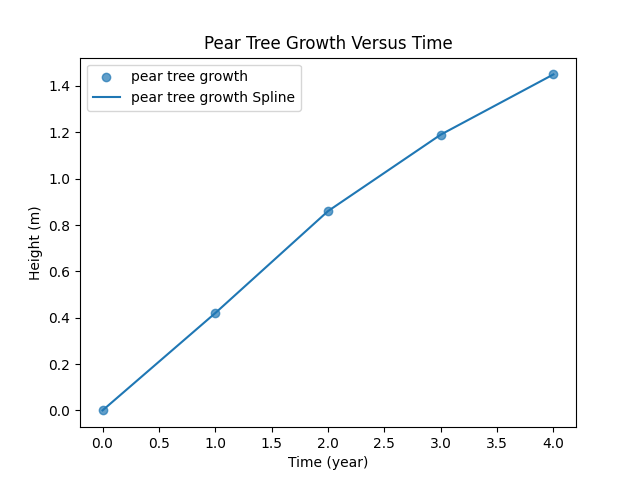
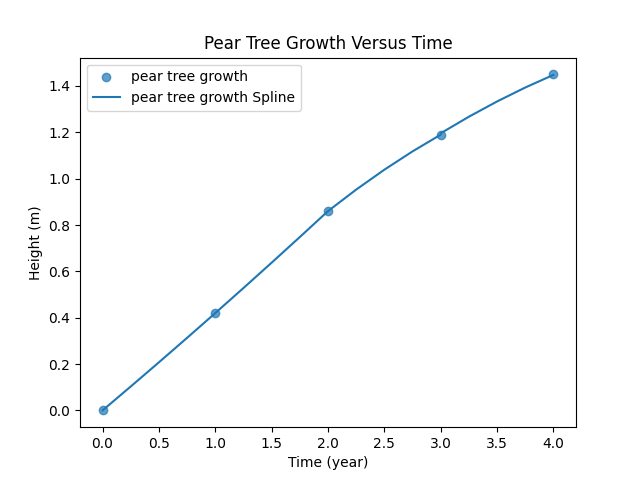
improving traces_style_collection and matplotlib conversion

diff --git a/JSONGrapher/JSONRecordCreator.py b/JSONGrapher/JSONRecordCreator.py
@@ -333,6 +333,7 @@ class JSONGrapherRecord:
     One can also use syntax like Record["comments"] = ...  as some 'magic' synchronizes fields directlyin the Record with fields in the fig_dict.
     However, developers should usually use the syntax like Record.fig_dict, internally, to avoid any referencing mistakes.
 
+
     Arguments & Attributes (all are optional):
         comments (str): Can be used to put in general description or metadata related to the entire record. Can include citation links. Goes into the record's top level comments field.
         datatype: The datatype is the experiment type or similar, it is used to assess which records can be compared and which (if any) schema to compare to. Use of single underscores between words is recommended. This ends up being the datatype field of the full JSONGrapher file. Avoid using double underscores '__' in this field  unless you have read the manual about hierarchical datatypes. The user can choose to provide a URL to a schema in this field, rather than a dataype name.
@@ -1359,39 +1360,59 @@ def validate_JSONGrapher_record(record):
     else:
         return True, []
 
-def rolling_polynomial_fit(x_values, y_values, window_size=3, degree=2):
+def rolling_polynomial_fit(x_values, y_values, window_size=3, degree=2, num_interpolated_points=3, adjust_edges=True):
     """
-    Applies a rolling polynomial regression with a specified window size and degree.
+    Applies a rolling polynomial regression with a specified window size and degree,
+    interpolates additional points, and optionally adjusts edge points for smoother transitions.
 
     Args:
         x_values (list): List of x coordinates.
         y_values (list): List of y coordinates.
         window_size (int): Number of points per rolling fit (default: 3).
         degree (int): Degree of polynomial to fit (default: 2).
+        num_interpolated_points (int): Number of interpolated points per segment (default: 3). Set to 0 to only return original points.
+        adjust_edges (bool): Whether to adjust edge cases based on window size (default: True).
 
     Returns:
         tuple: (smoothed_x, smoothed_y) lists for plotting.
     """
     import numpy as np
+
     smoothed_y = []
-    smoothed_x = x_values  # Keep x values unchanged
+    smoothed_x = []
 
     half_window = window_size // 2  # Number of points to take before & after
 
-    for i in range(len(y_values)):
-        # Handle edge cases: First and last points have fewer neighbors
+    for i in range(len(y_values) - 1):
+        # Handle edge cases dynamically based on window size
         left_bound = max(0, i - half_window)
         right_bound = min(len(y_values), i + half_window + 1)
+
+        if adjust_edges:
+            if i == 0:  # First point
+                right_bound = min(len(y_values), i + window_size)  # Expand to use more points near start
+            elif i == len(y_values) - 2:  # Last point
+                left_bound = max(0, i - (window_size - 1))  # Expand to include more points near end
 
         # Select the windowed data
         x_window = np.array(x_values[left_bound:right_bound])
         y_window = np.array(y_values[left_bound:right_bound])
 
+        # Adjust degree based on window size
+        adjusted_degree = degree if len(x_window) > 2 else 1  # Use linear fit if only two points are available
+
         # Fit polynomial & evaluate at current point
-        poly_coeffs = np.polyfit(x_window, y_window, deg=degree)
-        smoothed_y.append(np.polyval(poly_coeffs, x_values[i]))
+        poly_coeffs = np.polyfit(x_window, y_window, deg=adjusted_degree)
+
+        # Generate interpolated points between x_values[i] and x_values[i+1]
+        x_interp = np.linspace(x_values[i], x_values[i+1], num_interpolated_points + 2)  # Including endpoints
+        y_interp = np.polyval(poly_coeffs, x_interp)
+
+        smoothed_x.extend(x_interp)
+        smoothed_y.extend(y_interp)
 
     return smoothed_x, smoothed_y
+
 
 
 ## Start of Section of Code for Styles and Converting between plotly and matplotlib Fig objectss ##
@@ -1416,7 +1437,8 @@ def rolling_polynomial_fit(x_values, y_values, window_size=3, degree=2):
 def parse_plot_style(plot_style):
     """
     Parse the given plot style and return a structured dictionary for layout and data series styles.
-
+    If plot_style is missing a layout_style or trace_styles_collection then will set them as an empty string.
+    
     :param plot_style: None, str, list of two items, or a dictionary with at least one valid field.
     :return: dict with "layout_style" and "trace_styles_collection", ensuring defaults if missing.
     """
@@ -1431,15 +1453,17 @@ def parse_plot_style(plot_style):
             if "trace_style_collection" in plot_style:
                 print("Warning: plot_style has 'trace_style_collection', this key should be 'trace_styles_collection'.  The key is being used, but the spelling error should be fixed.")
                 plot_style["traces_styles_collection"] = plot_style["trace_style_collection"]
-            if "traces_style_collection" in plot_style:
+            elif "traces_style_collection" in plot_style:
                 print("Warning: plot_style has 'traces_style_collection', this key should be 'trace_styles_collection'.  The key is being used, but the spelling error should be fixed.")
                 plot_style["traces_styles_collection"] = plot_style["traces_style_collection"]
-
+            else:
+                plot_style.setdefault("trace_styles_collection", '')
+        if "layout_style" not in plot_style: 
+            plot_style.setdefault("layout_style", '')
         parsed_plot_style = {
             "layout_style": plot_style.get("layout_style", None),
             "trace_styles_collection": plot_style.get("trace_styles_collection", None),
         }
-        
     else:
         raise ValueError("Invalid plot style: Must be None, a string, a list of two items, or a dictionary with valid fields.")
     return parsed_plot_style
@@ -1453,13 +1477,15 @@ def parse_plot_style(plot_style):
 def apply_plot_style_to_plotly_dict(fig_dict, plot_style = {"layout_style":"", "trace_styles_collection":""}):
     #We first parse style_to_apply to get a properly formatted plot_style dictionary of form: {"layout_style":"default", "trace_styles_collection":"default"}
     plot_style = parse_plot_style(plot_style)
-    #Block for layout style.
+    plot_style.setdefault("layout_style",'') #fill with blank string if not present.
+    plot_style.setdefault("trace_styles_collection",'')  #fill with blank string if not present.
+    #Code logic for layout style.
     if str(plot_style["layout_style"]).lower() != 'none': #take no action if received "None" or NoneType
         if plot_style["layout_style"] == '': #in this case, we're going to use the default.
             plot_style["layout_style"] = 'default'
         fig_dict = remove_layout_style_from_plotly_dict(fig_dict=fig_dict)
         fig_dict = apply_layout_style_to_plotly_dict(fig_dict=fig_dict, layout_style_to_apply=plot_style["layout_style"])
-    #Block for trace_styles_collection style.
+    #Code logic for trace_styles_collection style.
     if str(plot_style["trace_styles_collection"]).lower() != 'none': #take no action if received "None" or NoneType
         if plot_style["trace_styles_collection"] == '': #in this case, we're going to use the default.
             plot_style["trace_styles_collection"] = 'default'            
@@ -1493,32 +1519,44 @@ def convert_JSONGrapher_dict_to_matplotlib_fig(fig_dict):
     fig, ax = plt.subplots()
 
     # Extract traces (data series)
+    #This section is now deprecated. It has not been completely updated after the trace_style field was created.
+    #There was old logic for trace_type which has been partially updated, but in fact the logic should be rewritten
+    #to better accommodate the existence of both "trace_style" and "type". It may be that there should be
+    #a helper function called 
     for trace in fig_dict.get("data", []):
-        trace_style = trace.get("type", None)
+        trace_style = trace.get("trace_style", '')
+        trace_type = trace.get("type", '')
+        if (trace_type == '') and (trace_style == ''):
+            trace_style = 'scatter_spline'
+        elif (trace_type == 'scatter') and (trace_style == ''):
+            trace_style = 'scatter_spline'
+        elif (trace_style == '') and (trace_type != ''):
+            trace_style = trace_type
         # If type is missing, but mode indicates lines and shape is spline, assume it's a spline
         if not trace_style and trace.get("mode") == "lines" and trace.get("line", {}).get("shape") == "spline":
             trace_style = "spline"
-
         x_values = trace.get("x", [])
         y_values = trace.get("y", [])
         trace_name = trace.get("name", "Data")
         if trace_style == "bar":
             ax.bar(x_values, y_values, label=trace_name)
-
         elif trace_style == "scatter":
             mode = trace.get("mode", "")
             ax.scatter(x_values, y_values, label=trace_name, alpha=0.7)
-
+        elif trace_style == "scatter_spline":
+            mode = trace.get("mode", "")
+            ax.scatter(x_values, y_values, label=trace_name, alpha=0.7)
             # Attempt to simulate spline behavior if requested
             if "lines" in mode or trace.get("line", {}).get("shape") == "spline":
                 print("Warning: Rolling polynomial approximation used instead of spline.")
                 x_smooth, y_smooth = rolling_polynomial_fit(x_values, y_values, window_size=3, degree=2)
-                
+                print("line 1530", x_smooth, y_smooth, x_values, y_values)
                 # Add a label explicitly for the legend
                 ax.plot(x_smooth, y_smooth, linestyle="-", label=f"{trace_name} Spline")
         elif trace_style == "spline":
             print("Warning: Using rolling polynomial approximation instead of true spline.")
             x_smooth, y_smooth = rolling_polynomial_fit(x_values, y_values, window_size=3, degree=2)
+            print("line 1536", x_smooth, y_smooth, x_values, y_values)
             ax.plot(x_smooth, y_smooth, linestyle="-", label=f"{trace_name} Spline")
 
     # Extract layout details

diff --git a/examples/example_2/example_2_json_record_tutorial.py b/examples/example_2/example_2_json_record_tutorial.py
@@ -93,11 +93,11 @@ Record.plot_with_plotly()
 #Now let's try applying a predfined style!
 print("\n\n STEP 7: TRYING PREDIFINED STYLES")
 #There are two parts to a style: the layout_style and the trace_style. This is further described in a separate file about styles.
-science_plot_style = {"layout_style":"Science", "trace_style":"Science"}
+science_plot_style = {"layout_style":"Science", "trace_styles_collection":"Science"}
 Record.apply_plot_style(plot_style=science_plot_style) #This command puts and applies style into the JSONgrapher record.  
 Record.plot_with_plotly()
 #we can also "temporarily" apply a style while plotting, without changing the record itself..
-nature_plot_style = {"layout_style":"Nature", "trace_style":"Nature"}
+nature_plot_style = {"layout_style":"Nature", "trace_styles_collection":"Nature"}
 Record.plot_with_plotly(plot_style=nature_plot_style)
 #So this plot will produce the "Science" style again:
 Record.plot_with_plotly()
